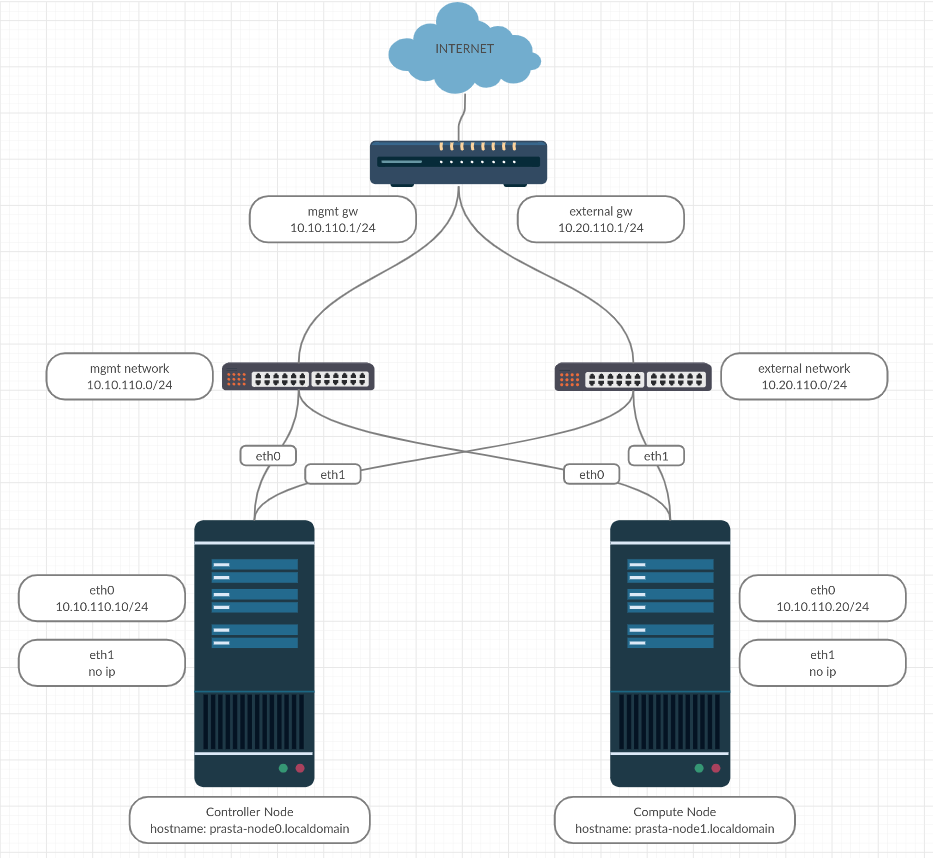
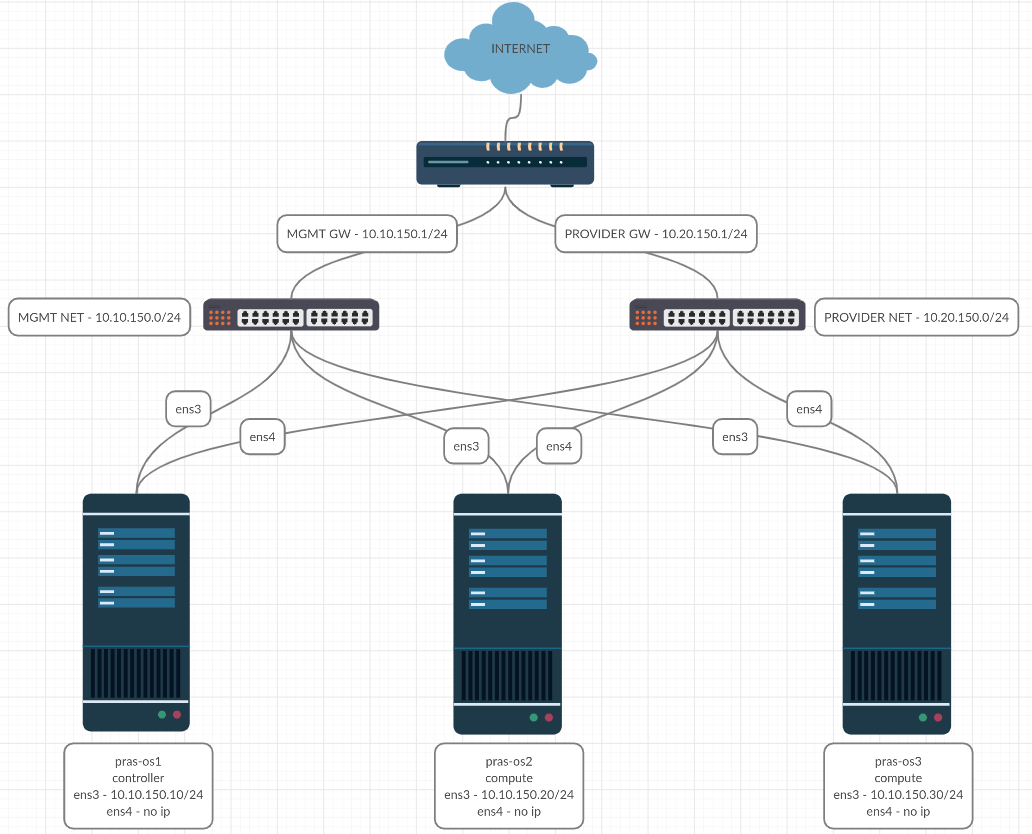
Add Topoloy

diff --git a/README.md b/README.md
@@ -11,6 +11,9 @@ This tutorial using **Ussuri** release version on ubuntu 18.04 LTS
 - 2 interfaces on each node (mgmt network and external network)
 - Internet access on both network
 
+### Topology
+![topology](images/topology.png)
+
 ### Note
 - Run command below using regular user
 - Run command below only on deployer node
